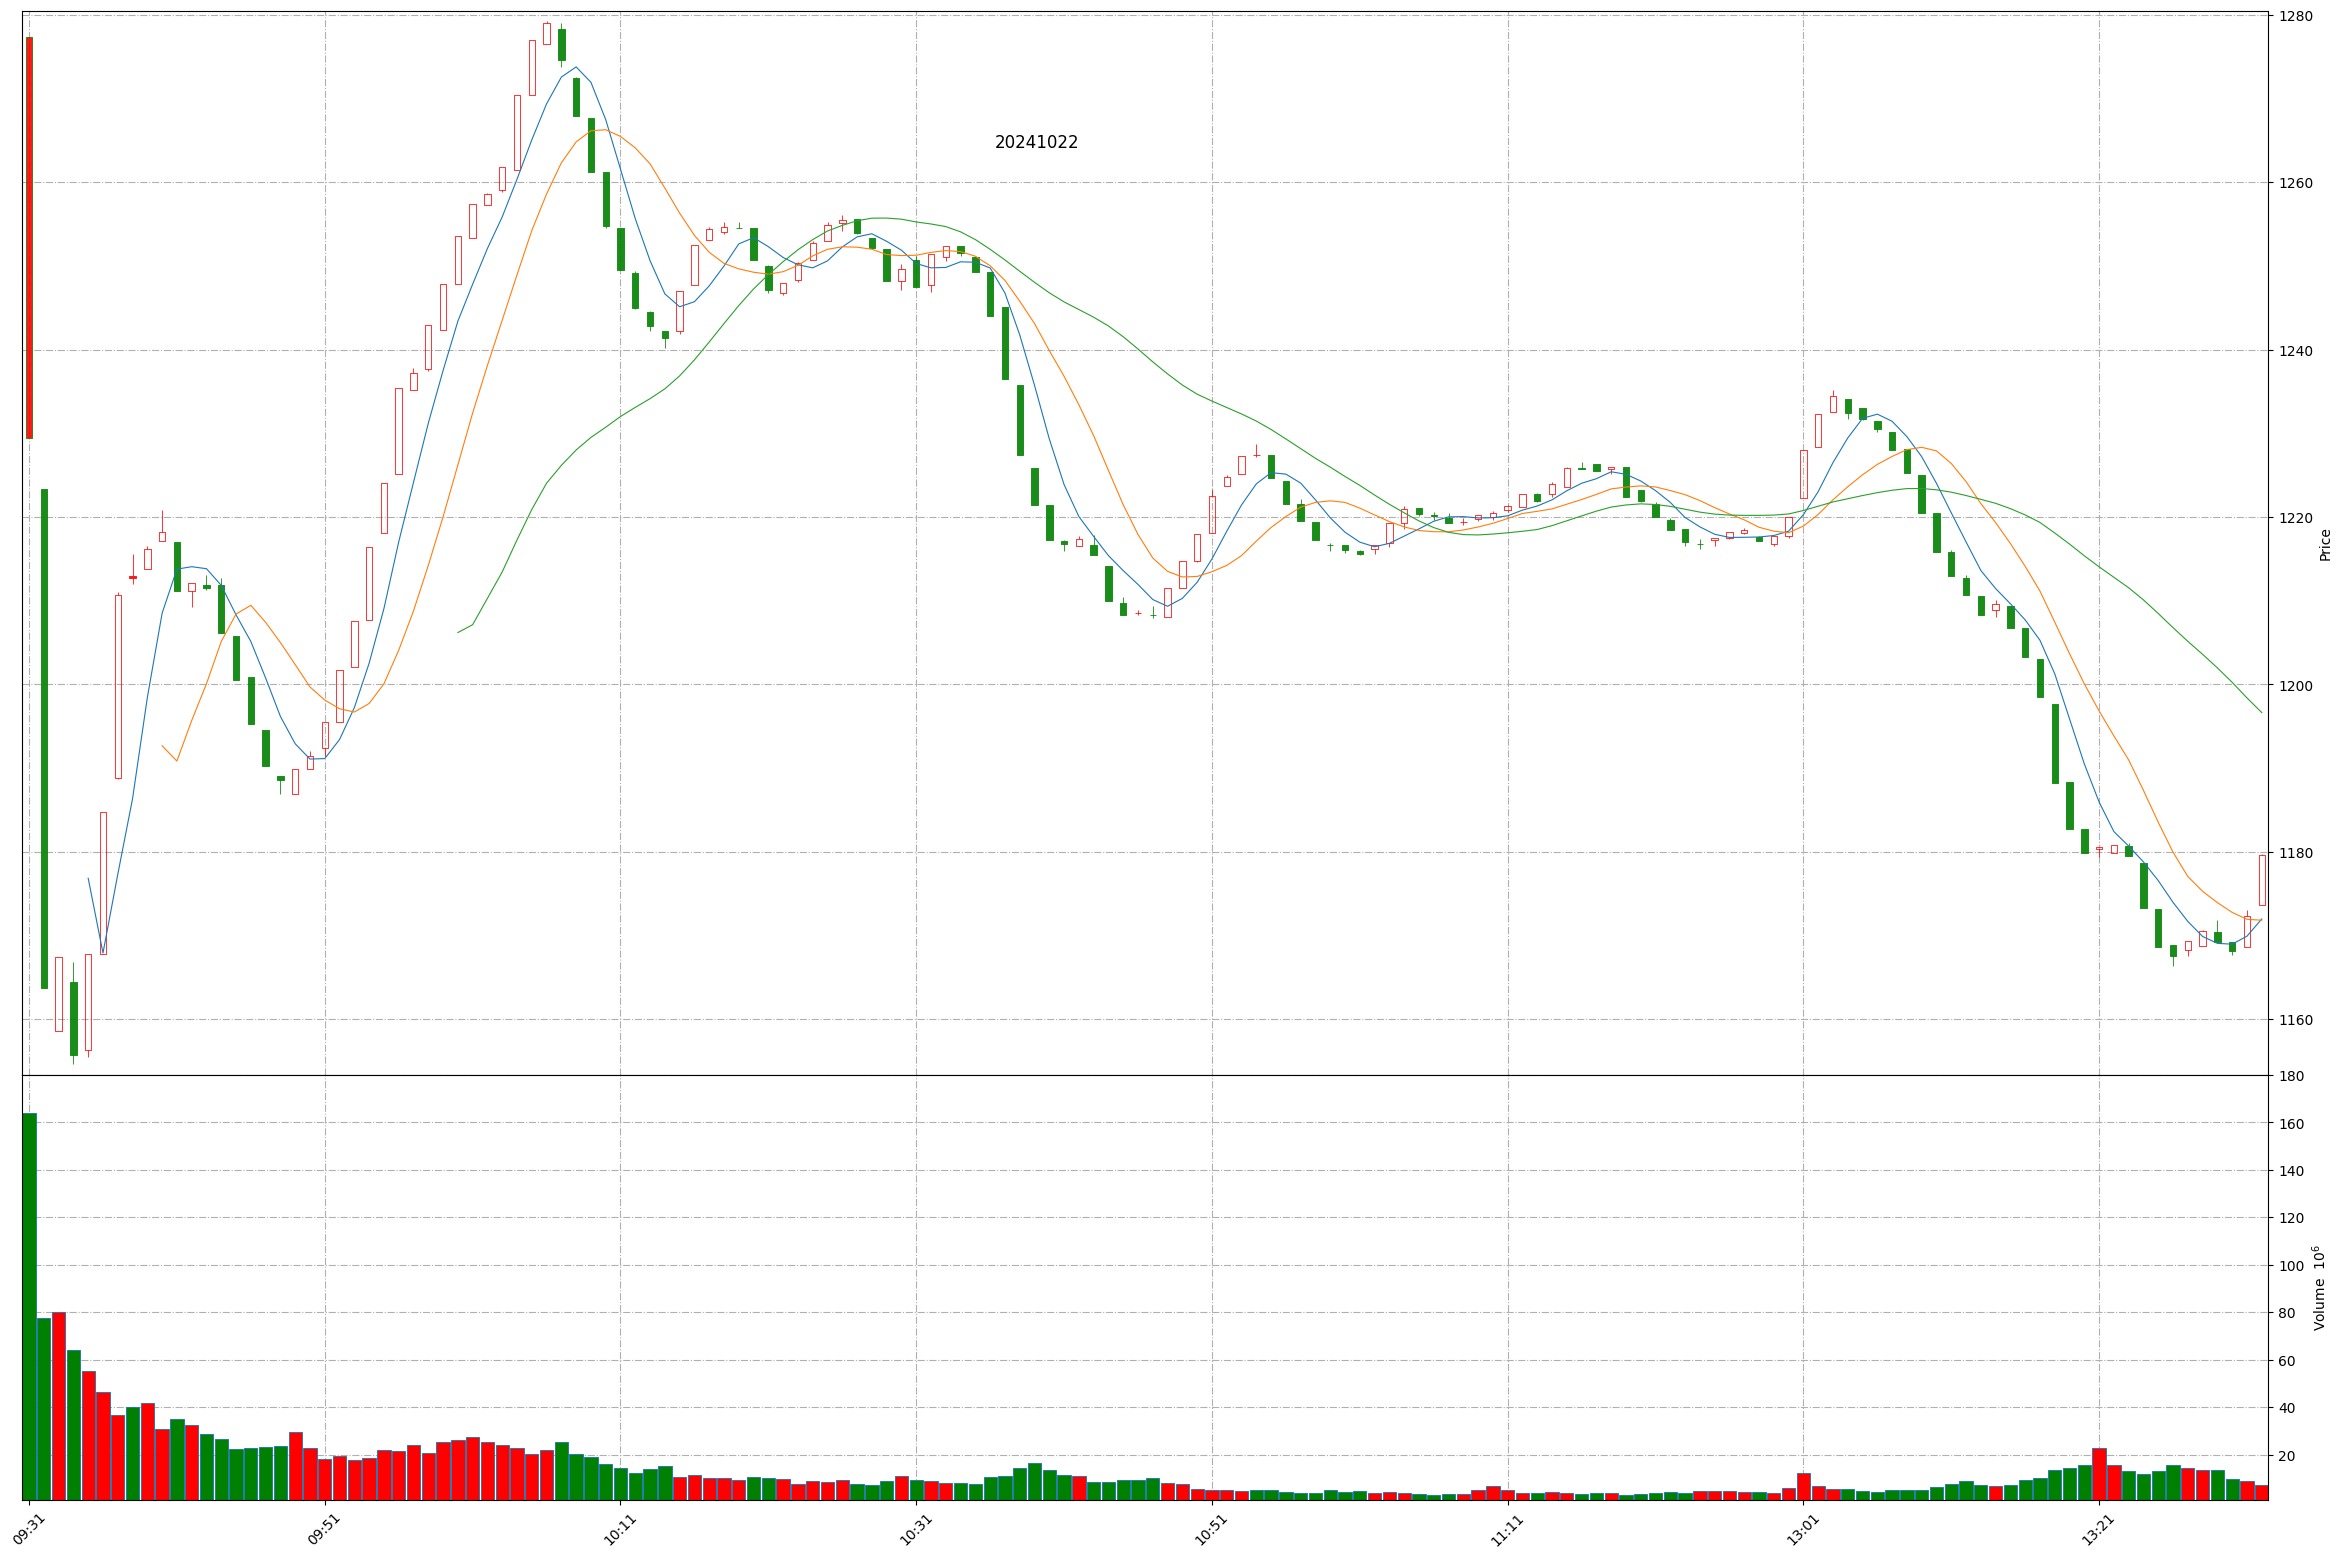
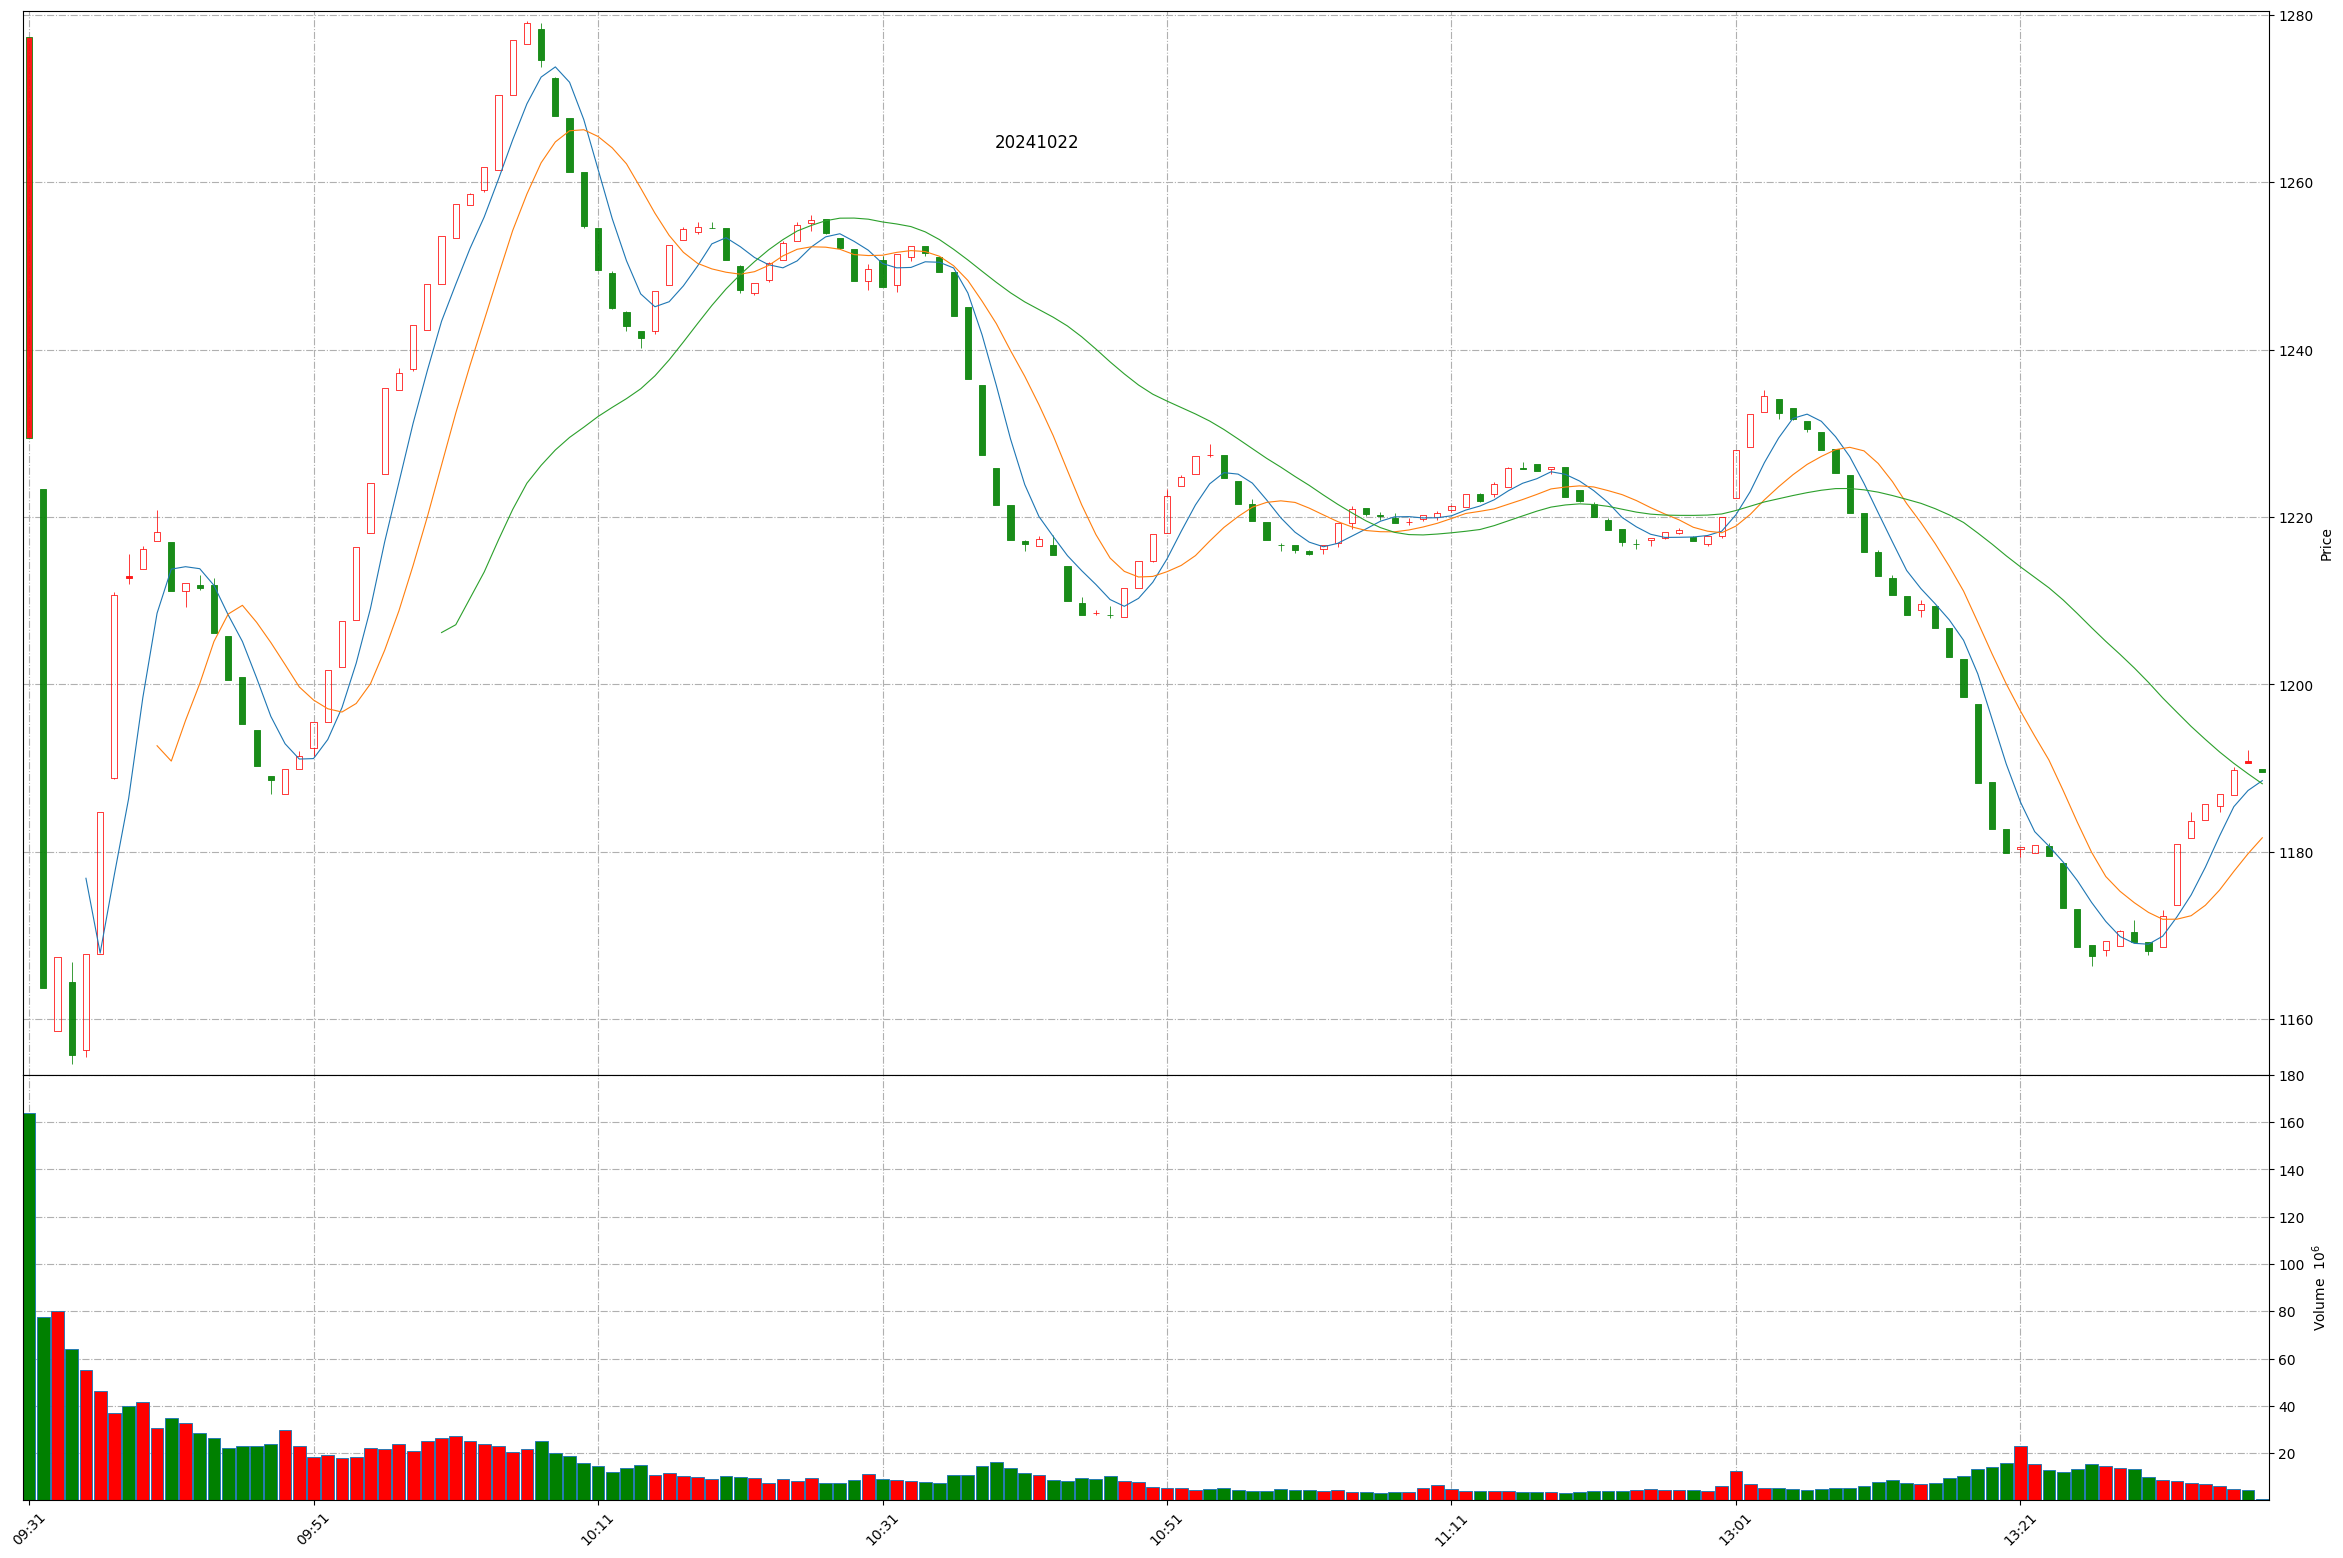
Github action update at 2024-10-22 13:37:29.

diff --git a/README.md b/README.md
@@ -1,11 +1,11 @@
 
 # Daily-A-share-market-quotes 每日 A 股指数（5min 更新）- 20241022
 
-### 上证指数 20241022 13:32
+### 上证指数 20241022 13:37
 ![](./fig/2024/10/20241022-sh000001.png)
 
-### 深证成指 20241022 13:32
+### 深证成指 20241022 13:37
 ![](./fig/2024/10/20241022-sz399001.png)
 
-### 北证50 20241022 13:32
+### 北证50 20241022 13:37
 ![](./fig/2024/10/20241022-bj899050.png)
